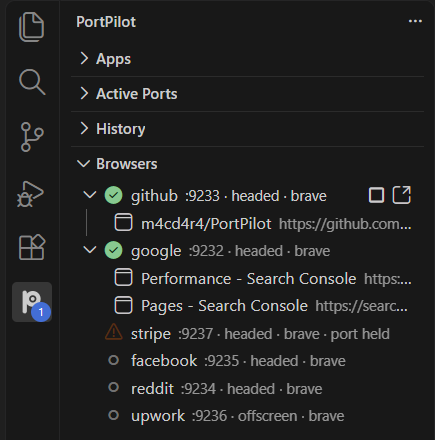
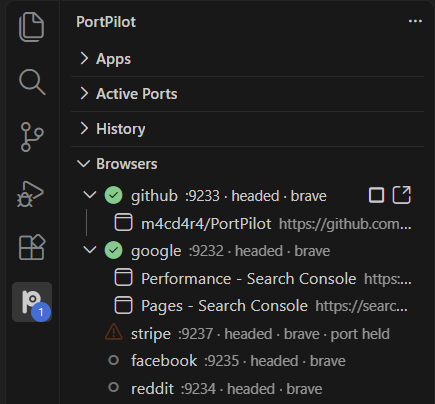
feat: agent-neutral attribution, drop tested-in link, extension 4.0.6 (#147)
Another MCP assistant is labelled by its own client name instead of claude. The tested-in line and its linkTestedRuns writer are removed. Crash toast and tooltip say an AI assistant. Browsers screenshot drops the upwork row; crash toast re-shot.

diff --git a/src/core/browserHistory.js b/src/core/browserHistory.js
@@ -12,10 +12,6 @@
  * whose name looks like a secret (token, key, code, auth, session, password ...) becomes `***`.
  * Only http, https and file pages are kept; chrome://, devtools:// and about:blank are not history.
  *
- * Also here: linking a dev server to the profile it was tested in. A tab on localhost:<port>
- * whose port belongs to a run that is open in runs.json stamps that run with
- * `testedIn: [{ profile, at }]` (additive; the History tab shows it).
- *
  * Nothing here talks to a browser: the sampler is handed `deps` ({ version, pageTabs }) so tests
  * run against a fake. Reading a page is limited to /json on the profile's own loopback port; no
  * page is ever navigated or evaluated. Zero dependencies.
@@ -28,7 +24,6 @@ const DEFAULT_MAX_ENTRIES = 500;
 const MAX_TABS = 50;
 const MAX_TITLE = 200;
 const MAX_URL = 1000;
-const MAX_TESTED_IN = 5;
 // PORTPILOT_BROWSER_SAMPLE_MS is for the end-to-end test, which cannot wait 30 s per sample.
 const SAMPLE_MS = Math.max(500, Number(process.env.PORTPILOT_BROWSER_SAMPLE_MS) || 30000);
 // A browser that stops answering for this many samples in a row is recorded as closed.
@@ -41,10 +36,7 @@ const SECRET_EXACT_RE = /^(sid|sig)$/i;
 const looksSecret = (name) => SECRET_NAME_RE.test(name) || SECRET_EXACT_RE.test(name);
 
 const historyPathFor = (configPath) => path.join(path.dirname(configPath), 'history', 'browser-runs.json');
-// runs.json lives next to it; written here without runHistory.js, which cannot be bundled into the plugin.
-const runsPathFor = (configPath) => path.join(path.dirname(configPath), 'history', 'runs.json');
 const emptyHistory = () => ({ v: 1, runs: [] });
-const emptyRuns = () => ({ v: 1, runs: [] });
 const lower = (s) => String(s).toLowerCase();
 
 // ---- URL redaction -----------------------------------------------------------
@@ -244,45 +236,10 @@ function getSession(configPath, id) {
   return readAll(configPath).find((r) => r.id === id) || null;
 }
 
-// ---- Dev server -> profile link ------------------------------------------------
-
-/** The port of a tab on localhost, 127.0.0.1 or [::1]; null for anything else. */
-function localhostPort(url) {
-  let u;
-  try { u = new URL(String(url)); } catch { return null; }
-  if (u.protocol !== 'http:' && u.protocol !== 'https:') return null;
-  if (!/^(localhost|127\.0\.0\.1|\[::1\])$/i.test(u.hostname)) return null;
-  const port = Number(u.port) || (u.protocol === 'https:' ? 443 : 80);
-  return port;
-}
-
-/**
- * Stamp the open dev-server runs whose port a tab is on with testedIn: [{ profile, at }].
- * Best effort and additive: a run keeps every other field, and a profile is listed once.
- * @returns {string[]} ids of the runs that were stamped
- */
-function linkTestedRuns(configPath, profile, tabs, now = Date.now()) {
-  const ports = new Set((Array.isArray(tabs) ? tabs : []).map((t) => localhostPort(t && t.url)).filter((p) => p));
-  if (!ports.size) return [];
-  const wants = (data) => (Array.isArray(data.runs) ? data.runs : []).filter((r) => !r.stoppedAt && ports.has(Number(r.port))
-    && !(Array.isArray(r.testedIn) && r.testedIn.some((x) => lower(x.profile) === lower(profile))));
-  // Read first: a sample that finds nothing new must not take the runs.json lock.
-  if (!wants(configFile.readJson(runsPathFor(configPath), emptyRuns)).length) return [];
-  const { result } = configFile.updateJson(runsPathFor(configPath), (data) => {
-    const stamped = [];
-    for (const r of wants(data)) {
-      r.testedIn = [...(Array.isArray(r.testedIn) ? r.testedIn : []), { profile: String(profile), at: new Date(now).toISOString() }].slice(-MAX_TESTED_IN);
-      stamped.push(r.id);
-    }
-    return stamped;
-  }, emptyRuns);
-  return result;
-}
-
 // ---- Sampler -------------------------------------------------------------------
 
 /**
- * One pass over every open entry: read its tabs, store them, link dev servers, and close an entry
+ * One pass over every open entry: read its tabs, store them, and close an entry
  * whose browser has stopped answering for MISSES_TO_CLOSE passes. `misses` is the caller's Map(id -> count).
  * @param {object} d { version(port), pageTabs(port) }
  */
@@ -305,7 +262,6 @@ async function sampleOnce(configPath, d, { misses = new Map(), now = Date.now() 
     let tabs = [];
     try { tabs = await d.pageTabs(e.port); } catch { /* keep what we had */ }
     sampleSession(configPath, e.profile, tabs, now);
-    linkTestedRuns(configPath, e.profile, tabs, now);
     out.sampled += 1;
   }
   return out;
@@ -330,7 +286,7 @@ function startSampler(configPath, d, { intervalMs = SAMPLE_MS } = {}) {
 
 module.exports = {
   DEFAULT_MAX_ENTRIES, MAX_TABS, SAMPLE_MS, MISSES_TO_CLOSE,
-  historyPathFor, redactUrl, cleanTabs, localhostPort, parseSince, trim,
+  historyPathFor, redactUrl, cleanTabs, parseSince, trim,
   openSession, openEntryFor, sampleSession, closeSession, listSessions, getSession,
-  linkTestedRuns, sampleOnce, startSampler,
+  sampleOnce, startSampler,
 };

diff --git a/tests/browsers-history.e2e.js b/tests/browsers-history.e2e.js
@@ -5,8 +5,7 @@
  *
  * Starts a profile through the Browsers tab, opens a page on a local test server (the page address
  * carries a fake token), stops, then asserts the history entry, its redacted tab URL, the History
- * expander with its Open again button, that Open again really reopens the page in a fresh browser,
- * and that the dev-server run the page belongs to reads "tested in <profile>" in the History tab.
+ * expander with its Open again button, and that Open again really reopens the page in a fresh browser.
  * Browser and page ports are free OS ports, never 9222-9240; nothing here touches the real config.
  */
 const { spawn } = require('child_process');
@@ -73,11 +72,8 @@ async function main() {
     await json(browserPort, `/json/new?${encodeURIComponent(pageUrl)}`, { method: 'PUT' });
     await until(async () => (await tabsOn(browserPort)).some((t) => t.url.includes(`:${pagePort}/`) && t.title === 'Shop demo'), 15000, 'the page loaded in the browser');
 
-    // The sampler reads the tab without anyone stopping the browser, and links the dev-server run.
+    // The sampler reads the tab without anyone stopping the browser.
     await until(() => JSON.parse(fs.readFileSync(historyFile, 'utf8')).runs[0].tabs.some((t) => t.url.includes(`:${pagePort}/`)), 15000, 'a sample with the page');
-    const runs = () => JSON.parse(fs.readFileSync(path.join(historyDir, 'runs.json'), 'utf8')).runs;
-    await until(() => (runs()[0].testedIn || []).length > 0, 15000, 'testedIn on the run');
-    check('the sampler links the dev-server run to the profile it was tested in', runs()[0].testedIn[0].profile === 'hist-qa', JSON.stringify(runs()[0].testedIn));
 
     // Stop through the UI: the closing entry has the tab, redacted.
     await win.click(toggle);
@@ -119,10 +115,6 @@ async function main() {
     await win.screenshot({ path: path.join(SHOTS || h.os.tmpdir(), 'browsers-history-390.png') });
     await win.setViewportSize({ width: 1440, height: 900 });
 
-    // The History tab shows where the dev server was tested
-    await win.click('.view-tab[data-view="history"]');
-    await until(async () => (await win.$$('.hrow')).length > 0, 15000, 'history rows');
-    check('the History tab reads "tested in hist-qa" on the dev-server run', (await win.textContent('.hrow')).includes('tested in hist-qa'), (await win.textContent('.hrow')).replace(/\s+/g, ' ').slice(0, 200));
     check('no renderer console errors', errors.length === 0, errors.slice(0, 3).join(' | '));
   } finally {
     const w = app.windows()[0];

diff --git a/mcp-server/index.js b/mcp-server/index.js
@@ -689,15 +689,15 @@ function alreadyRunning(app, check = checkPort) {
 }
 
 /**
- * Record that Claude started `app` through this server, so every surface shows
- * "claude <session>". Best-effort: returns false (never throws) on a bad
+ * Record that an AI assistant started `app` through this server, so every surface shows
+ * "claude <session>", or `client` (the MCP client's own name, e.g. "cursor") when it is not Claude. Best-effort: returns false (never throws) on a bad
  * session id or a failed write - the start itself already succeeded.
  */
-function stampStart(configPath, app, sessionId) {
+function stampStart(configPath, app, sessionId, client) {
   if (!app || !app.id) return false;
   let startedBy;
   try {
-    startedBy = status.makeStartedBy({ kind: 'claude', surface: 'mcp', sessionId });
+    startedBy = status.makeStartedBy({ kind: 'claude', surface: 'mcp', sessionId, label: client });
   } catch {
     return false;
   }
@@ -841,6 +841,10 @@ function createServer() {
     version: '4.0.3',
   });
 
+  // The connected client's own name from the MCP handshake ("cursor-vscode", "claude-code"), so a
+  // start by another assistant is not stamped as Claude. Empty before the handshake completes.
+  const clientName = () => { try { return (server.server.getClientVersion() || {}).name || ''; } catch { return ''; } };
+
   // --- Status ---
 
   server.tool(
@@ -955,7 +959,7 @@ function createServer() {
       if (refused) return { content: [{ type: 'text', text: refused }], isError: true };
       const up = alreadyRunning(app);
       const result = up || await startApp(app, configFile.logPathFor(getConfigPath(), app.id));
-      if (result.success && !up) stampStart(getConfigPath(), app, sessionId);
+      if (result.success && !up) stampStart(getConfigPath(), app, sessionId, clientName());
       return { content: [{ type: 'text', text: JSON.stringify(result, null, 2) }], isError: !result.success };
     }
   );
@@ -999,7 +1003,7 @@ function createServer() {
         if (refused) return { name: a.name, success: false, error: refused };
         const up = alreadyRunning(a);
         const result = up || await startApp(a, configFile.logPathFor(getConfigPath(), a.id));
-        if (result.success && !up) stampStart(getConfigPath(), a, sessionId);
+        if (result.success && !up) stampStart(getConfigPath(), a, sessionId, clientName());
         return { name: a.name, ...result };
       }));
       const ok = results.filter(r => r.success).length;

diff --git a/src/core/status.js b/src/core/status.js
@@ -139,7 +139,8 @@
   // (configFile.recordStart) by whichever surface started it, so every
   // surface shows the same answer. One vocabulary everywhere:
   //   human    -> "you"          (any surface)
-  //   claude   -> "claude a3f2"  (short session id; full id in the title)
+  //   claude   -> "claude a3f2"  (an AI assistant; short session id, full id in the title; the
+  //                             word is the assistant's own name when startedBy.label names one)
   //   external -> "external"     (found running, not started by PortPilot)
   const PROVENANCE_KINDS = ['human', 'claude', 'external'];
   const SURFACES = ['desktop', 'web', 'vscode', 'claude-code', 'mcp'];
@@ -165,6 +166,13 @@
     return id ? String(id).replace(/[^A-Za-z0-9]/g, '').slice(0, 4).toLowerCase() : '';
   }
 
+  /** Who a startedBy label names: Claude unless it is the name of another assistant. */
+  function agentName(label) {
+    const clean = String(label || '').replace(/[^A-Za-z0-9 ._-]/g, '').trim().slice(0, 30);
+    if (!clean || /claude/i.test(clean)) return { word: 'claude', title: 'Claude', other: false };
+    return { word: clean.toLowerCase(), title: clean, other: true };
+  }
+
   /**
    * How to show a startedBy record: { kind, word, glyph, title }. `word` is the
    * text every surface shows; `glyph` is for tight spaces and is only set for
@@ -180,12 +188,15 @@
       return { kind: 'human', word: 'you', glyph: '', title: `Started by you from ${s.surface}${when}` };
     }
     const short = shortSession(s.sessionId);
-    const session = s.sessionId ? ` (session ${s.sessionId}${s.label ? `, ${s.label}` : ''})` : '';
+    // kind 'claude' is the stored name for "an AI assistant started it" (renaming it would orphan
+    // every stamp already on disk). A label that names another assistant ("cursor") is shown instead.
+    const agent = agentName(s.label);
+    const session = s.sessionId ? ` (session ${s.sessionId}${s.label && !agent.other ? `, ${s.label}` : ''})` : '';
     return {
       kind: 'claude',
-      word: short ? `claude ${short}` : 'claude',
+      word: short ? `${agent.word} ${short}` : agent.word,
       glyph: CLAUDE_GLYPH,
-      title: `Started by Claude${session} via ${s.surface}${when}`,
+      title: `Started by ${agent.title}${session} via ${s.surface}${when}`,
     };
   }
 

diff --git a/src/core/runView.js b/src/core/runView.js
@@ -141,17 +141,6 @@
   }
 
   /**
-   * "tested in shop-tests" for a run a browser profile had a tab on (run.testedIn, written by the
-   * browser history sampler), "tested in a, b +1" past two. '' when none.
-   */
-  function testedInLine(run) {
-    const names = [];
-    for (const t of (run && run.testedIn) || []) if (t && t.profile && !names.includes(String(t.profile))) names.push(String(t.profile));
-    if (!names.length) return '';
-    return `tested in ${names.slice(0, 2).join(', ')}${names.length > 2 ? ` +${names.length - 2}` : ''}`;
-  }
-
-  /**
    * The thumbnail each Apps row may show: per app, its newest OPEN run, and only
    * when that run already has a page.thumb. A newer run still waiting for its
    * capture hides the older run's page rather than showing the wrong one.
@@ -172,5 +161,5 @@
     return out;
   }
 
-  return { filterRuns, facets, labelOf, runStateOf, startedByWord, formatWhen, formatBytes, footerText, gitLine, testedInLine, rowThumbs };
+  return { filterRuns, facets, labelOf, runStateOf, startedByWord, formatWhen, formatBytes, footerText, gitLine, rowThumbs };
 });

diff --git a/src/renderer/history.js b/src/renderer/history.js
@@ -109,7 +109,7 @@
     </div>
     <div class="hline hline-sub">
       <span class="state-cell state-${esc(st.state)}" style="--state-color: var(${esc(st.token)})"><span class="state-glyph" aria-hidden="true">${esc(st.glyph)}</span><span class="state-word">${esc(st.word)}</span>${st.reason ? `<span class="state-meta">${esc(st.reason)}</span>` : ''}</span>
-      ${run.detected ? '' : `<span class="hby">${esc(RV.startedByWord(run))}</span>`}${run.rerunOf ? '<span class="hby">re-run</span>' : ''}${RV.testedInLine(run) ? `<span class="hby htested" title="A browser profile had this page open">${esc(RV.testedInLine(run))}</span>` : ''}
+      ${run.detected ? '' : `<span class="hby">${esc(RV.startedByWord(run))}</span>`}${run.rerunOf ? '<span class="hby">re-run</span>' : ''}
     </div>
     ${prog ? `<div class="hprog" role="status">${esc(prog)}</div>` : ''}
     ${err ? `<div class="herr" role="alert">${esc(err)}</div>` : ''}

diff --git a/vscode-extension/src/extension.ts b/vscode-extension/src/extension.ts
@@ -145,7 +145,7 @@ export function activate(context: vscode.ExtensionContext) {
 
   async function showCrash(app: PortPilotApp, stamp: CrashStamp) {
     const why = stamp.exitCode != null ? ` (exit ${stamp.exitCode})` : '';
-    const who = stamp.startedBy?.kind === 'claude' ? ' Claude Code started it.' : '';
+    const who = stamp.startedBy?.kind === 'claude' ? ' An AI assistant started it.' : '';
     const choice = await vscode.window.showErrorMessage(`${app.name} crashed${why}.${who}`, 'Restart', 'Logs');
     if (choice === 'Restart') {
       startApp(app);

diff --git a/vscode-extension/out/extension.js b/vscode-extension/out/extension.js
@@ -162,7 +162,7 @@ function activate(context) {
     }
     async function showCrash(app, stamp) {
         const why = stamp.exitCode != null ? ` (exit ${stamp.exitCode})` : '';
-        const who = stamp.startedBy?.kind === 'claude' ? ' Claude Code started it.' : '';
+        const who = stamp.startedBy?.kind === 'claude' ? ' An AI assistant started it.' : '';
         const choice = await vscode.window.showErrorMessage(`${app.name} crashed${why}.${who}`, 'Restart', 'Logs');
         if (choice === 'Restart') {
             startApp(app);

diff --git a/vscode-extension/out/portsTreeProvider.js b/vscode-extension/out/portsTreeProvider.js
@@ -62,7 +62,7 @@ class PortTreeItem extends vscode.TreeItem {
             `Process: ${activePort.processName}`,
             `PID: ${activePort.pid}`,
             matchedAppName ? `App: ${matchedAppName}` : '',
-            byClaude ? 'Started by Claude Code' : ''
+            byClaude ? 'Started by an AI assistant' : ''
         ].filter(Boolean).join('\n');
     }
 }

diff --git a/vscode-extension/src/portsTreeProvider.ts b/vscode-extension/src/portsTreeProvider.ts
@@ -44,7 +44,7 @@ export class PortTreeItem extends vscode.TreeItem {
       `Process: ${activePort.processName}`,
       `PID: ${activePort.pid}`,
       matchedAppName ? `App: ${matchedAppName}` : '',
-      byClaude ? 'Started by Claude Code' : ''
+      byClaude ? 'Started by an AI assistant' : ''
     ].filter(Boolean).join('\n');
   }
 }

diff --git a/vscode-extension/README.md b/vscode-extension/README.md
@@ -16,9 +16,9 @@ PortPilot lists your registered apps and every listening port in the VS Code sid
 
 <img src="https://raw.githubusercontent.com/m4cd4r4/PortPilot/master/docs/screenshots/vscode-v4-ports.png" alt="Active Ports listing app names, with a star on the ports Claude Code started" width="420">
 
-**Crash alerts.** When an app crashes, the PortPilot icon gets a count badge and a toast says which app crashed, its exit code and whether Claude Code started it. Restart brings it back; Logs opens its output with the stderr tail. A crash from before the window opened shows in the badge without a toast. The status bar switches from `PP: 6 running` to `PP: 550-au crashed`.
+**Crash alerts.** When an app crashes, the PortPilot icon gets a count badge and a toast says which app crashed, its exit code and whether an AI assistant started it. Restart brings it back; Logs opens its output with the stderr tail. A crash from before the window opened shows in the badge without a toast. The status bar switches from `PP: 6 running` to `PP: 550-au crashed`.
 
-<img src="https://raw.githubusercontent.com/m4cd4r4/PortPilot/master/docs/screenshots/vscode-v4-crash-toast.png" alt="Crash toast: 550-au crashed (exit 1). Claude Code started it. With Restart and Logs buttons" width="560">
+<img src="https://raw.githubusercontent.com/m4cd4r4/PortPilot/master/docs/screenshots/vscode-v4-crash-toast.png" alt="Crash toast: 550-au crashed (exit 1). An AI assistant started it. With Restart and Logs buttons" width="560">
 
 **History: go back to a page from last week.** The `History` view lists past localhost pages from PortPilot's local run history, newest first: Today, Yesterday, then one group per day for a week, then a collapsed `Earlier`. Each row shows the app, start time and port, with an icon for running, stopped, crashed or ended-unseen. Hover for the page title, URL, git branch and commit, and the page thumbnail. Servers PortPilot found without you registering them carry a `detected` marker once the desktop app records them.
 
@@ -50,7 +50,7 @@ The portal binds `127.0.0.1` only and needs a per-session token. It runs on the 
 
 ## Use it with Claude Code
 
-The ✦ marks and the "Claude Code started it" line come from the PortPilot plugin for Claude Code. It gives Claude the same view: a status line, a guard that reuses a running server instead of starting a second copy, and a crash band with Fix it.
+The ✦ marks and the "An AI assistant started it" line appear for any app an MCP assistant started through PortPilot. The PortPilot plugin for Claude Code adds the same view inside Claude: a status line, a guard that reuses a running server instead of starting a second copy, and a crash band with Fix it.
 
 ```text
 /plugin marketplace add m4cd4r4/PortPilot

diff --git a/docs/SCENARIOS.md b/docs/SCENARIOS.md
@@ -47,7 +47,6 @@ Unit checks (`npm run test:unit`, `npm run test:mcp`) cover the logic; these sce
 | Stop a running profile | Click Stop, then ask the port again | The port stops answering | `browsers-ui.e2e.js` |
 | Remove a stopped profile | Remove, confirm | The row goes; its folder stays on disk | `browsers-ui.e2e.js` |
 | Start a profile, open a page whose address carries `?token=...`, stop | Read `history/browser-runs.json` | One entry: stopped, ended by the desktop, the tab stored as `...?token=***&view=1` with its title; the secret is nowhere in the file | `tests/browsers-history.e2e.js` |
-| A page on a dev server's port is open in a profile | Wait for a sample, read the run in `history/runs.json` and the History tab | `testedIn` names the profile; the row reads `tested in hist-qa` | `browsers-history.e2e.js` |
 | Expand History under a profile | Read the expander at 1440 and 390 px | Each session shows when, who, tab count, how it ended, its tab titles and redacted URLs, and Open again; no horizontal scroll | `browsers-history.e2e.js` |
 | Click Open again on a past session | Ask the profile's debug port for `/json` | A fresh browser is up and the page is open in a new tab; the hidden secret is not restored; a second session is recorded | `browsers-history.e2e.js` |
 | Two Claude sessions want the same profile | `start_browser` from both, with live heartbeats | The first wins; the second gets `IN_USE` naming the owner, and no second browser starts. A dead owner or `takeover:true` lets it through; `name: "any"` finds a free one | `tests/browser-api-lease.test.cjs`, `tests/mcp-browser.test.mjs` |
